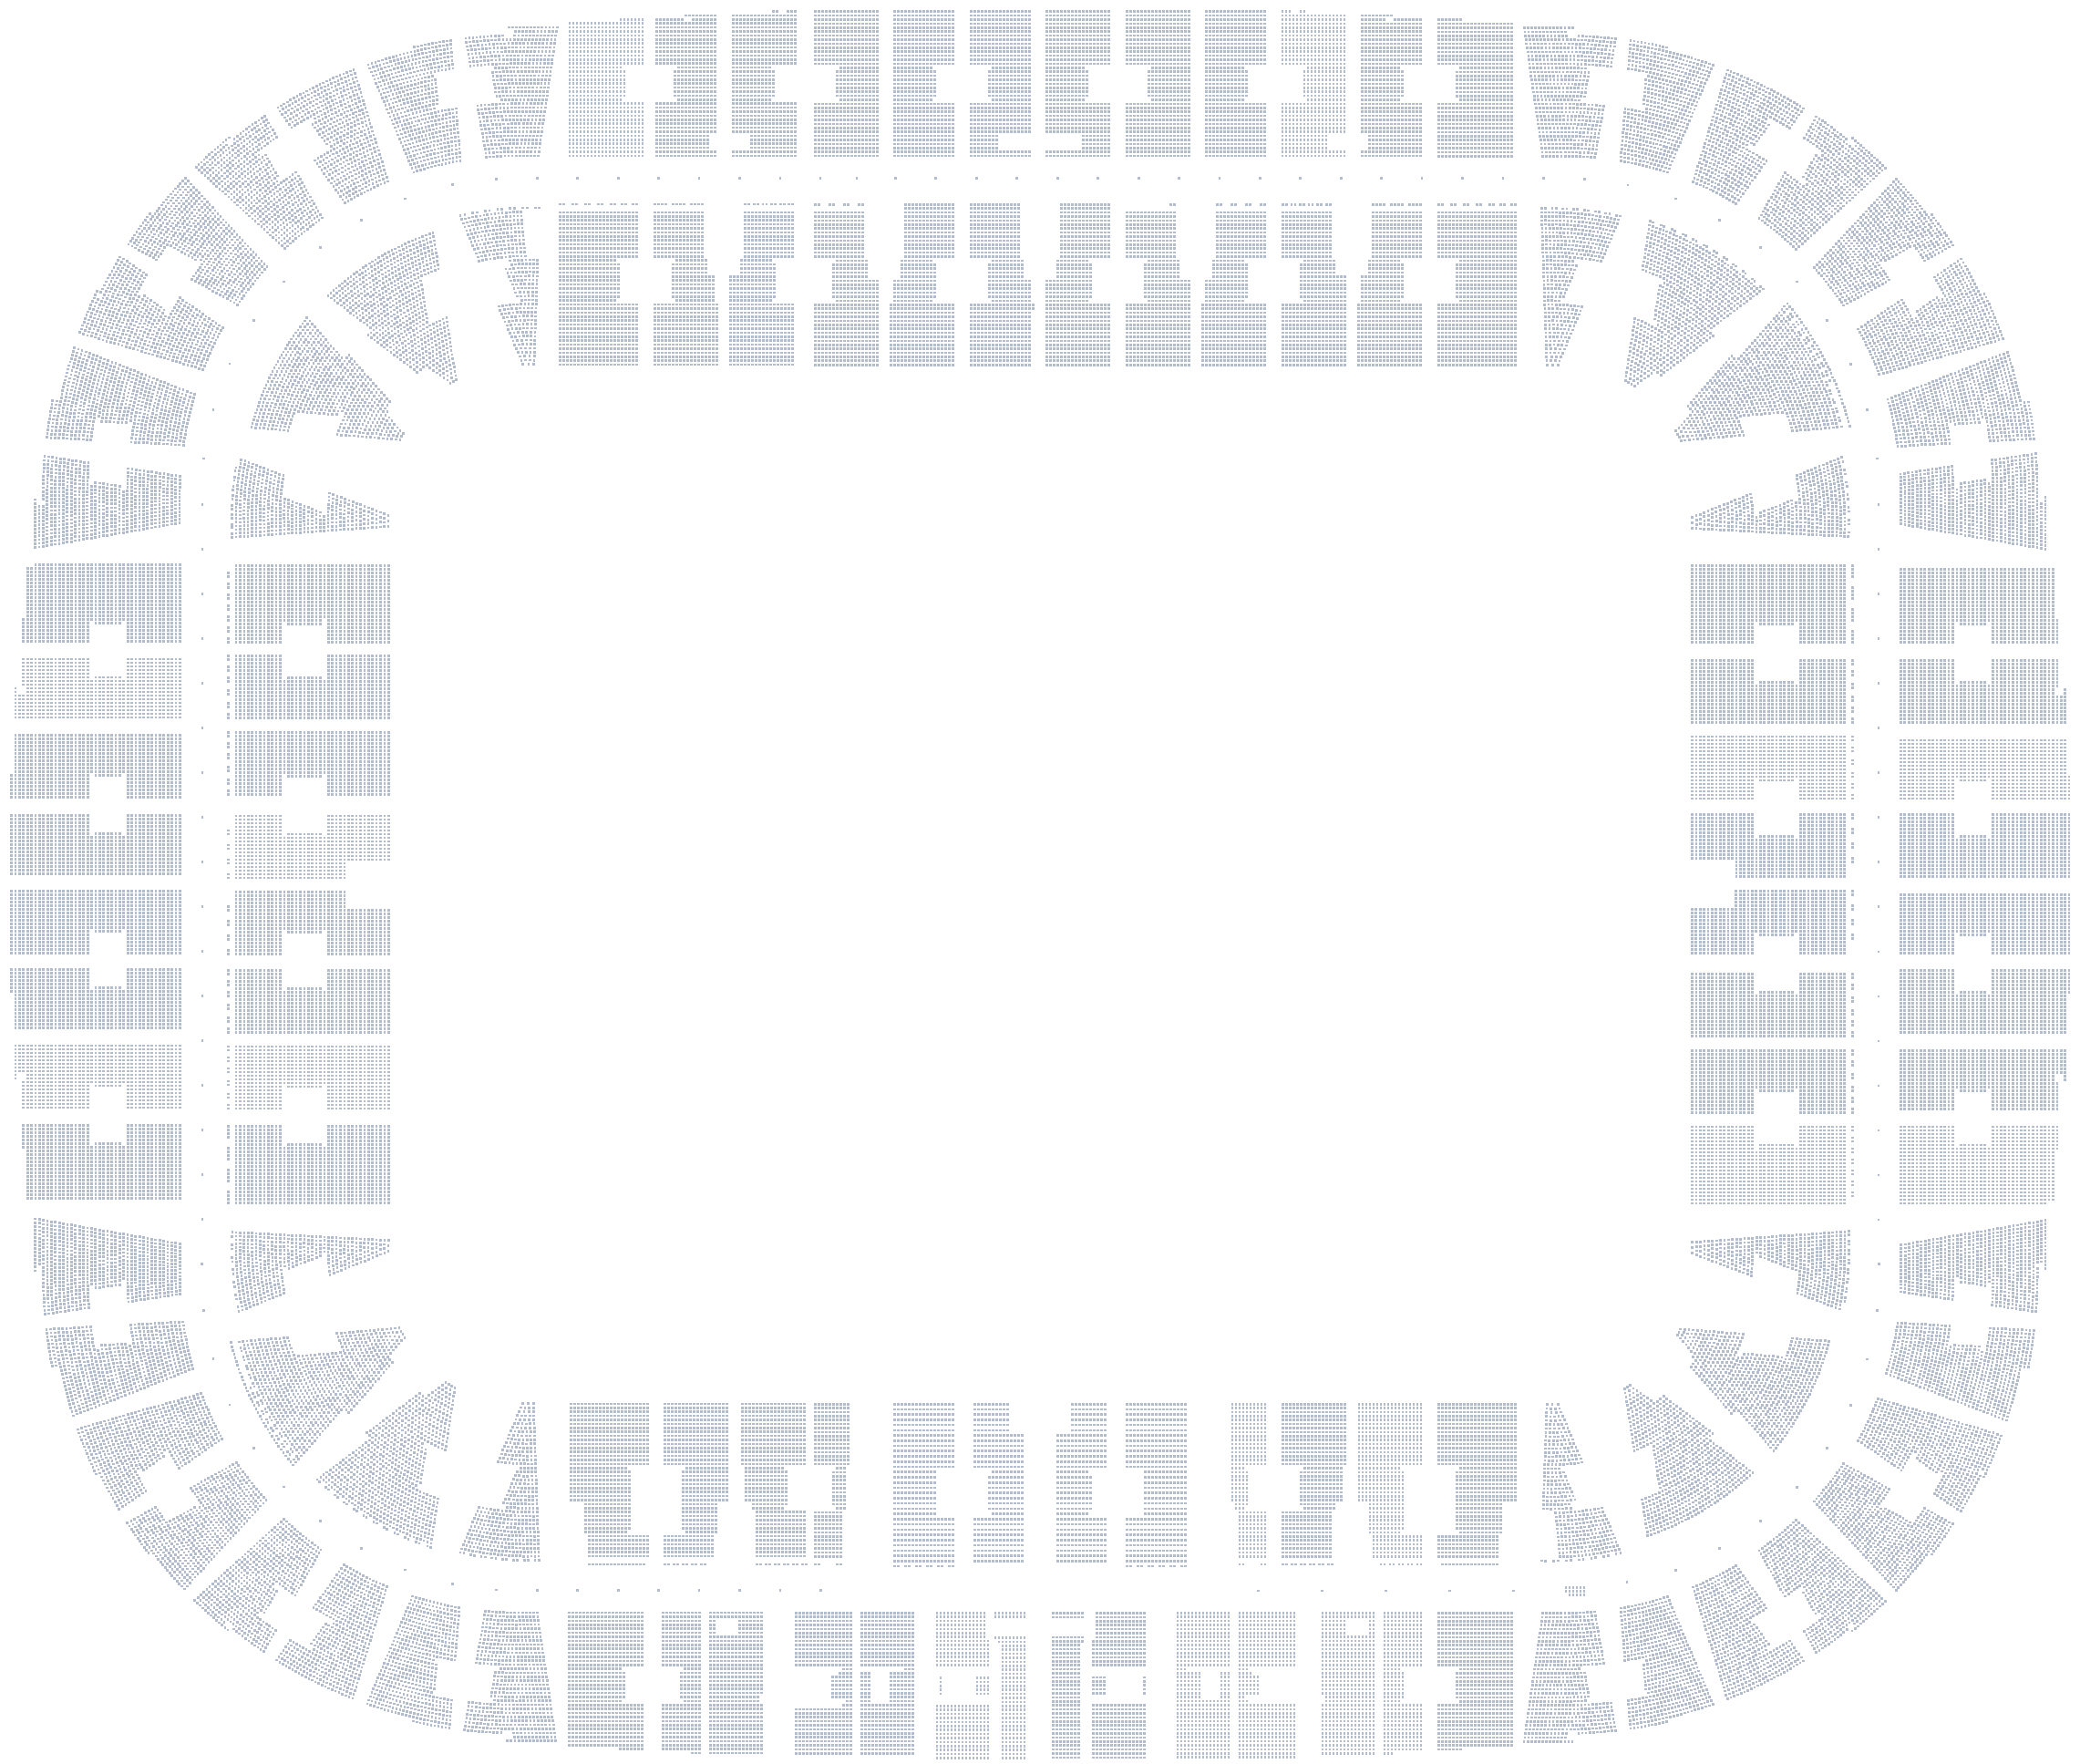
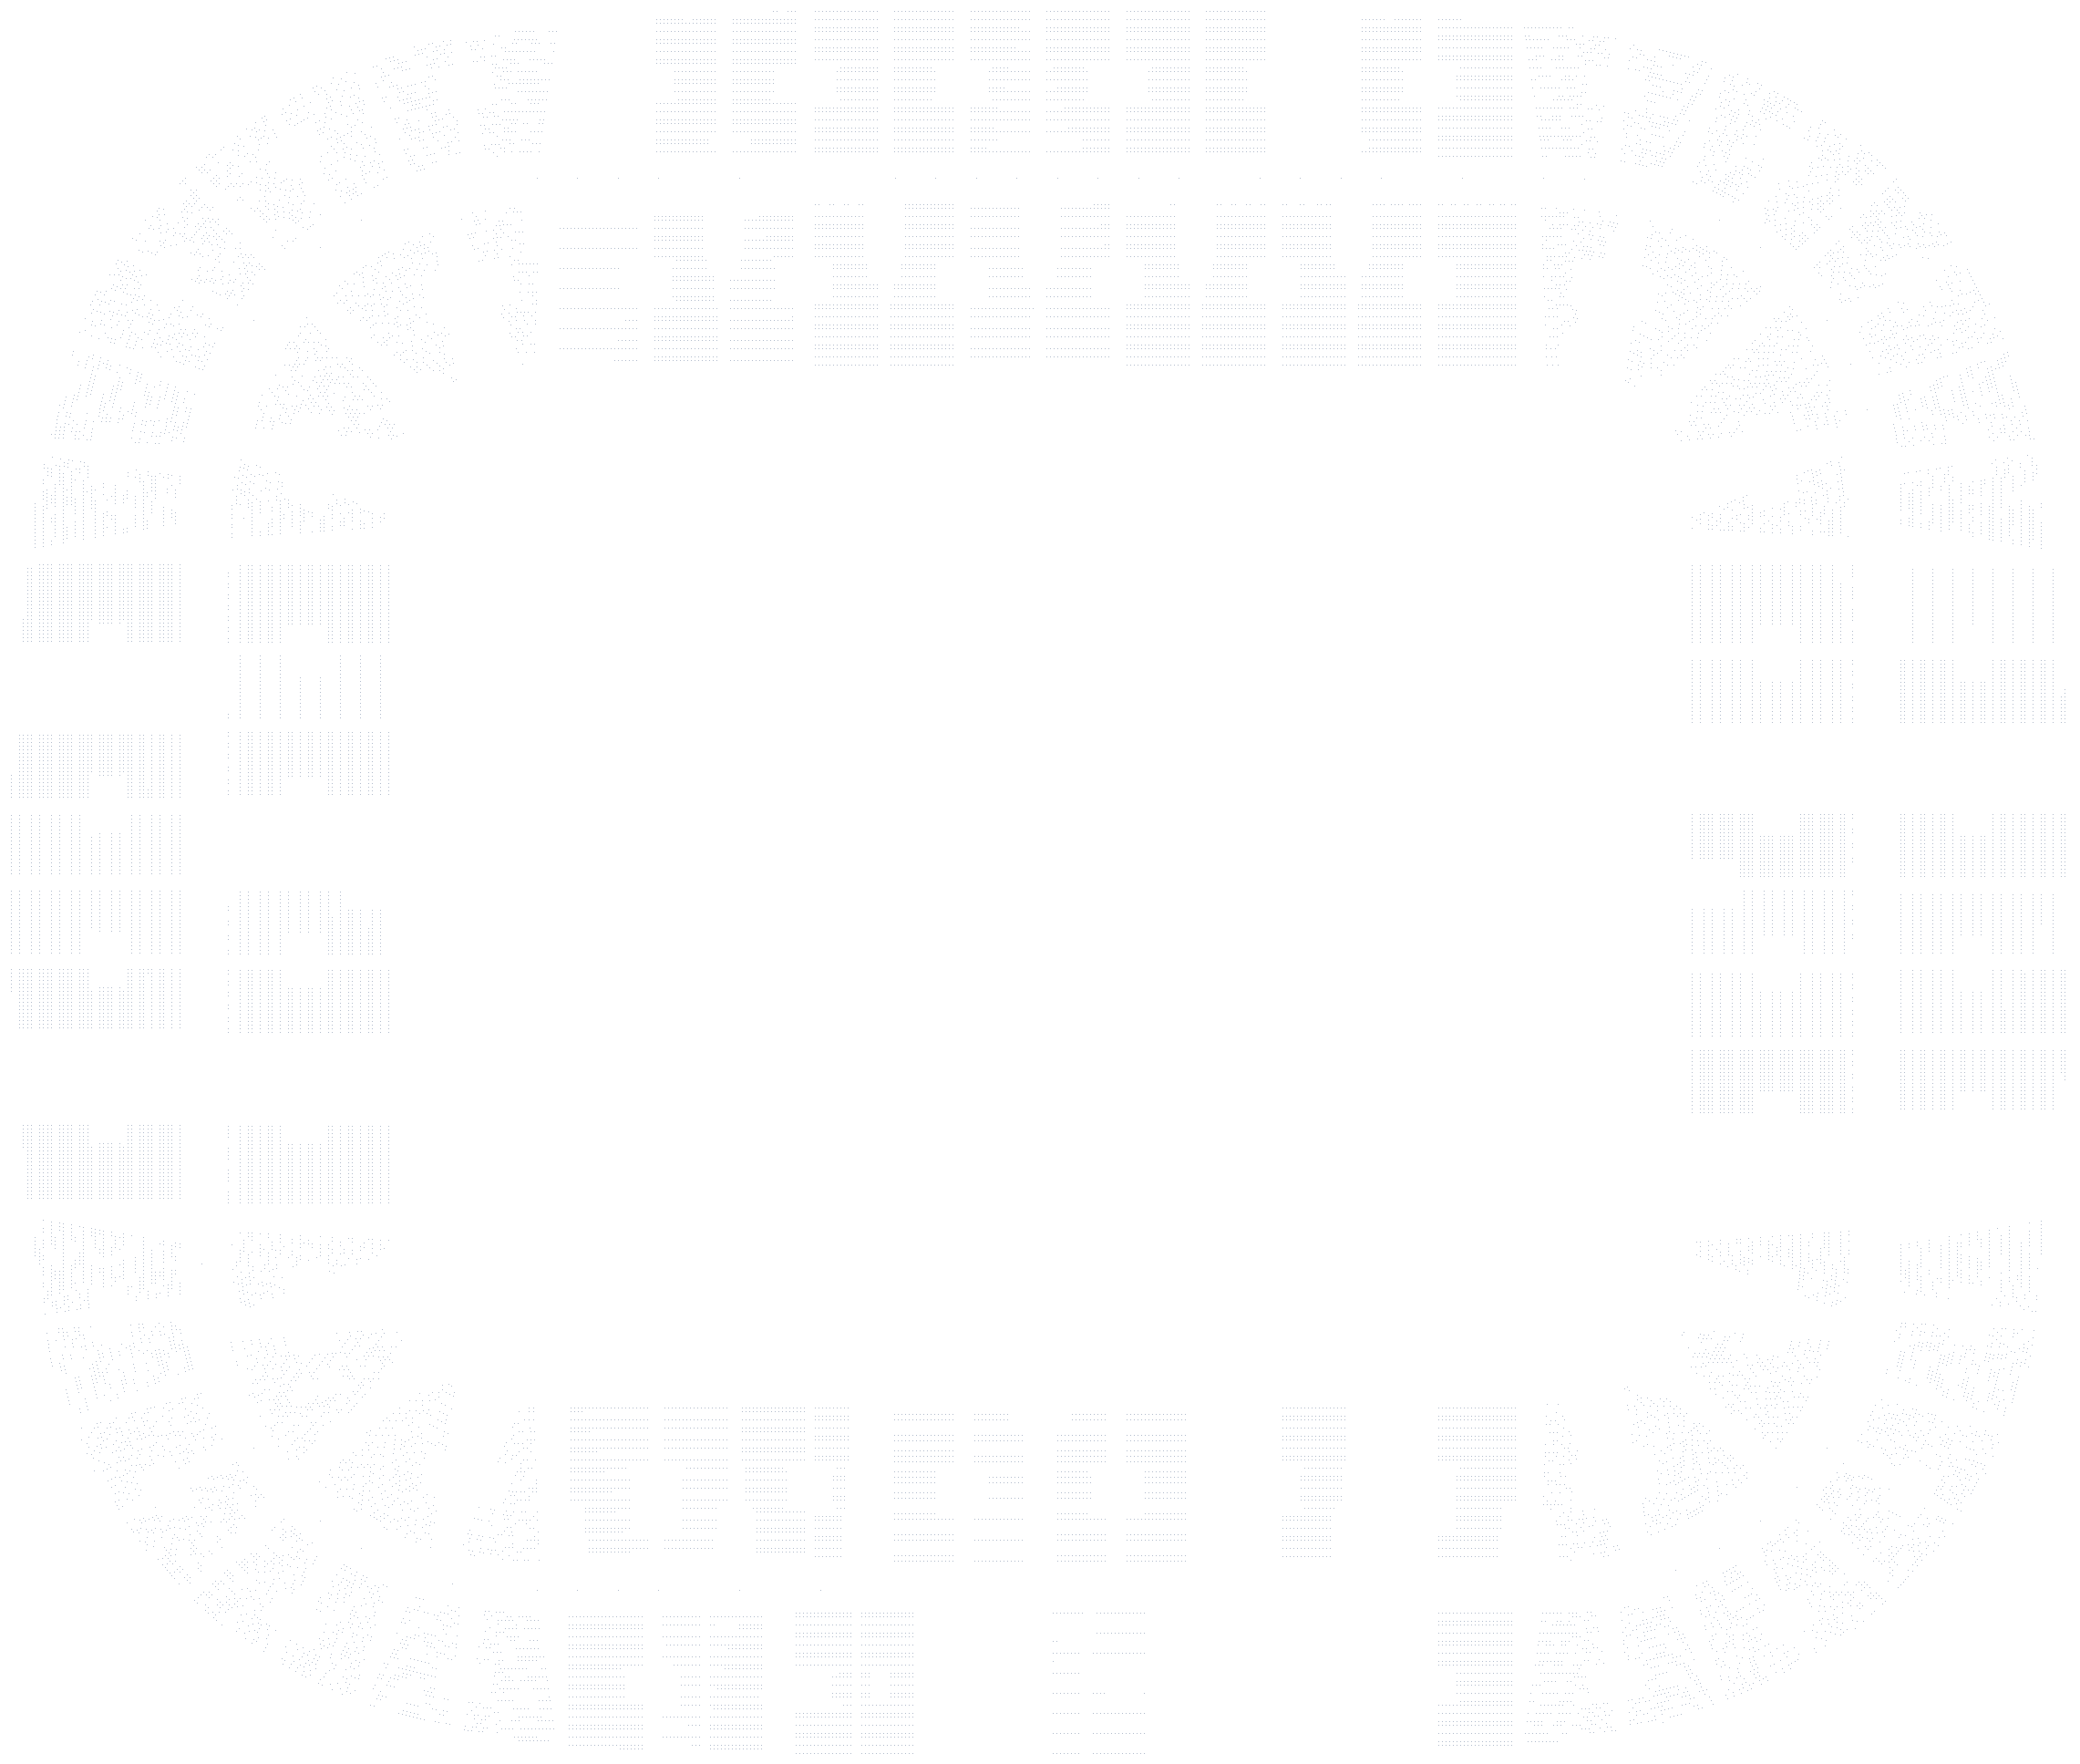
fix: кружки серой чаши при zoom — PNG + lazy dots.bin
Обзор: PNG с кругами. Zoom: vector ctx.arc из dots.bin, без ctx.rect и без 77k в layout.
Отдача dots.bin с backend, блок allSeatCoordinates при omitClientSeatCoordinateCloud.

Changed region(s): [[0.0, 0.0, 0.9956, 1.0]]

diff --git a/frontend/src/components/tickets/TicketHallInteractiveBlock.tsx b/frontend/src/components/tickets/TicketHallInteractiveBlock.tsx
@@ -14,7 +14,7 @@ import {
 } from '../../utils/svgNativeSeatLayout';
 import styles from './TicketHallInteractiveBlock.module.css';
 
-/** Совпадает с фоновой заливкой точек чаши на canvas (dense rects). */
+/** Совпадает с фоновой заливкой точек чаши на canvas (dense hall). */
 const CANVAS_HALL_SEAT_DOT_FILL = 'rgba(148, 163, 184, 0.72)';
 /** Маркер без оффера / превью схемы в DOM (slate ≈ rgb(148,163,184)); офферы — colorForSeat. */
 const DOM_UNIFORM_SEAT_ACCENT = '#94a3b8';
@@ -152,6 +152,56 @@ type BackgroundSeatCoordinate = {
   yPct: number;
 };
 
+function hallBackgroundSeatRadiusPx(scalePx: number, dense: boolean): number {
+  return dense
+    ? Math.max(0.5, Math.min(1.75, scalePx * 3.6))
+    : Math.max(0.85, Math.min(2.6, scalePx * 5.5));
+}
+
+type BackgroundArcLayout = {
+  left: number;
+  top: number;
+  screenW: number;
+  screenH: number;
+};
+
+function drawHallBackgroundArcs(
+  ctx: CanvasRenderingContext2D,
+  seats: BackgroundSeatCoordinate[] | Float32Array,
+  layout: BackgroundArcLayout,
+  viewportWidth: number,
+  viewportHeight: number,
+  svgViewBoxWidth: number,
+  dense: boolean,
+): void {
+  const { left, top, screenW, screenH } = layout;
+  const scalePx = screenW / Math.max(1, svgViewBoxWidth);
+  const r = hallBackgroundSeatRadiusPx(scalePx, dense);
+  ctx.fillStyle = CANVAS_HALL_SEAT_DOT_FILL;
+  ctx.beginPath();
+  const limW = viewportWidth + 14;
+  const limH = viewportHeight + 14;
+
+  if (seats instanceof Float32Array) {
+    for (let i = 0; i < seats.length; i += 2) {
+      const sx = left + (seats[i] / 100) * screenW;
+      const sy = top + (seats[i + 1] / 100) * screenH;
+      if (sx < -8 || sy < -8 || sx > limW || sy > limH) continue;
+      ctx.moveTo(sx + r, sy);
+      ctx.arc(sx, sy, r, 0, Math.PI * 2);
+    }
+  } else {
+    for (const seat of seats) {
+      const sx = left + (seat.xPct / 100) * screenW;
+      const sy = top + (seat.yPct / 100) * screenH;
+      if (sx < -8 || sy < -8 || sx > limW || sy > limH) continue;
+      ctx.moveTo(sx + r, sy);
+      ctx.arc(sx, sy, r, 0, Math.PI * 2);
+    }
+  }
+  ctx.fill();
+}
+
 function parseOverlayRect(layout: unknown): OverlayRect {
   if (!layout || typeof layout !== 'object') {
     return { x: 0.06, y: 0.14, w: 0.88, h: 0.72 };
@@ -284,6 +334,7 @@ import {
   lookupLabeledSeat,
 } from '@/utils/hallSeatSeatLookup';
 import {
+  hallBackgroundDotsUrlFromRaster,
   parseHallBackgroundRasterUrl,
   parseOmitClientSeatCoordinateCloud,
 } from '@/utils/luzhnikiStadiumMap';
@@ -515,6 +566,10 @@ export function TicketHallInteractiveBlock({
     hallBackgroundRasterUrl
     && (omitClientSeatCoordinateCloud || backgroundSeatCoordinates.length < 1),
   );
+  const hallBackgroundDotsUrl = useMemo(
+    () => hallBackgroundDotsUrlFromRaster(hallBackgroundRasterUrl),
+    [hallBackgroundRasterUrl],
+  );
   const nativeProcessed = useMemo(() => processHallSvgForNative(hallSvgHtml), [hallSvgHtml]);
   const preferLayoutSeatPositions = useMemo(
     () => parsePreferLayoutSeatPositions(layoutJson),
@@ -729,8 +784,11 @@ export function TicketHallInteractiveBlock({
   const touchSeatPressRef = useRef<{ key: string; x: number; y: number } | null>(null);
   const canvasImageRef = useRef<HTMLImageElement | null>(null);
   const hallRasterImageRef = useRef<HTMLImageElement | null>(null);
+  const bowlDotsRef = useRef<Float32Array | null>(null);
+  const bowlDotsLoadRef = useRef<Promise<void> | null>(null);
   const [canvasImageVersion, setCanvasImageVersion] = useState(0);
   const [hallRasterVersion, setHallRasterVersion] = useState(0);
+  const [bowlDotsVersion, setBowlDotsVersion] = useState(0);
   const [fitZoom, setFitZoom] = useState(1);
 
   const isCoarsePointer = useMemo(() => {
@@ -1322,6 +1380,41 @@ export function TicketHallInteractiveBlock({
 
   const selectedSectorSummary = selectedSector ? sectorSummaryByLabel.get(selectedSector) ?? null : null;
   const mapZoomed = zoom > fitZoom + 0.01;
+
+  useEffect(() => {
+    bowlDotsRef.current = null;
+    bowlDotsLoadRef.current = null;
+    setBowlDotsVersion((v) => v + 1);
+  }, [hallBackgroundDotsUrl]);
+
+  useEffect(() => {
+    if (!useHallBackgroundRaster || !hallBackgroundDotsUrl || !mapZoomed) return;
+    if (bowlDotsRef.current || bowlDotsLoadRef.current) return;
+
+    let cancelled = false;
+    bowlDotsLoadRef.current = fetch(hallBackgroundDotsUrl)
+      .then((response) => {
+        if (!response.ok) throw new Error(`dots ${response.status}`);
+        const ct = response.headers.get('content-type') || '';
+        if (ct.includes('text/html')) throw new Error('dots html fallback');
+        return response.arrayBuffer();
+      })
+      .then((buffer) => {
+        if (cancelled || buffer.byteLength < 100_000) return;
+        bowlDotsRef.current = new Float32Array(buffer);
+        setBowlDotsVersion((v) => v + 1);
+      })
+      .catch(() => {
+        /* zoom без vector dots — останется PNG fallback */
+      })
+      .finally(() => {
+        bowlDotsLoadRef.current = null;
+      });
+
+    return () => {
+      cancelled = true;
+    };
+  }, [hallBackgroundDotsUrl, mapZoomed, useHallBackgroundRaster]);
   const selectedSectorOffers = useMemo(
     () => (selectedSectorSummary ? sortOffersForGrid(selectedSectorSummary.offers) : []),
     [selectedSectorSummary],
@@ -1505,46 +1598,39 @@ export function TicketHallInteractiveBlock({
       }
 
       const hallRaster = hallRasterImageRef.current;
-      if (useHallBackgroundRaster && hallRaster) {
+      const mapZoomedNow = zoom > fitZoom + 0.01;
+      const bowlDots = bowlDotsRef.current;
+      if (useHallBackgroundRaster && hallRaster && (!mapZoomedNow || !bowlDots)) {
         ctx.drawImage(hallRaster, x, y, w, h);
+      }
+
+      if (useHallBackgroundRaster && mapZoomedNow && bowlDots) {
+        drawHallBackgroundArcs(
+          ctx,
+          bowlDots,
+          { left: x, top: y, screenW: w, screenH: h },
+          width,
+          height,
+          svgViewBox.width,
+          true,
+        );
       }
 
       const bg = backgroundSeatCoordinates;
       if (
         !useHallBackgroundRaster
         && bg.length > 0
-        && (zoom > fitZoom + 0.01 || bg.length >= 8000)
+        && (mapZoomedNow || bg.length >= 8000)
       ) {
-        ctx.fillStyle = 'rgba(148, 163, 184, 0.72)';
-        const scalePx = w / Math.max(1, svgViewBox.width);
-        const useRects = bg.length >= 2500;
-        if (useRects) {
-          const dense = bg.length >= 8000;
-          const r = dense
-            ? Math.max(0.5, Math.min(1.75, scalePx * 3.6))
-            : Math.max(0.85, Math.min(2.6, scalePx * 5.5));
-          ctx.beginPath();
-          const limW = width + 14;
-          const limH = height + 14;
-          for (const seat of bg) {
-            const sx = x + (seat.xPct / 100) * w;
-            const sy = y + (seat.yPct / 100) * h;
-            if (sx < -8 || sy < -8 || sx > limW || sy > limH) continue;
-            ctx.rect(sx - r * 0.5, sy - r * 0.5, r, r);
-          }
-          ctx.fill();
-        } else {
-          ctx.beginPath();
-          const r = Math.max(1.15, Math.min(3.2, scalePx * 7));
-          for (const seat of bg) {
-            const sx = x + (seat.xPct / 100) * w;
-            const sy = y + (seat.yPct / 100) * h;
-            if (sx < -8 || sy < -8 || sx > width + 8 || sy > height + 8) continue;
-            ctx.moveTo(sx + r, sy);
-            ctx.arc(sx, sy, r, 0, Math.PI * 2);
-          }
-          ctx.fill();
-        }
+        drawHallBackgroundArcs(
+          ctx,
+          bg,
+          { left: x, top: y, screenW: w, screenH: h },
+          width,
+          height,
+          svgViewBox.width,
+          bg.length >= 8000,
+        );
       }
 
       if (visibleNativePlacements.length > 0) {
@@ -1580,6 +1666,7 @@ export function TicketHallInteractiveBlock({
     return () => cancelAnimationFrame(frame);
   }, [
     backgroundSeatCoordinates,
+    bowlDotsVersion,
     canvasImageVersion,
     colorForSeat,
     fitZoom,

diff --git a/backend/scripts/render-luzhniki-gray-bowl-png.js b/backend/scripts/render-luzhniki-gray-bowl-png.js
@@ -30,18 +30,24 @@ function parseArgs() {
   return { out, coordsPath };
 }
 
-function paintRect(buf, w, h, x0, y0, x1, y1, rgba) {
-  const cx0 = Math.max(0, x0);
-  const cy0 = Math.max(0, y0);
-  const cx1 = Math.min(w - 1, x1);
-  const cy1 = Math.min(h - 1, y1);
-  for (let y = cy0; y <= cy1; y += 1) {
-    let i = (y * w + cx0) * 4;
-    for (let x = cx0; x <= cx1; x += 1) {
-      buf[i] = rgba[0];
-      buf[i + 1] = rgba[1];
-      buf[i + 2] = rgba[2];
-      buf[i + 3] = rgba[3];
+function paintDisc(buf, w, h, cx, cy, radius, rgba) {
+  const r = Math.ceil(radius);
+  const x0 = Math.max(0, Math.floor(cx - r));
+  const y0 = Math.max(0, Math.floor(cy - r));
+  const x1 = Math.min(w - 1, Math.ceil(cx + r));
+  const y1 = Math.min(h - 1, Math.ceil(cy + r));
+  const r2 = radius * radius;
+  for (let y = y0; y <= y1; y += 1) {
+    let i = (y * w + x0) * 4;
+    for (let x = x0; x <= x1; x += 1) {
+      const dx = x - cx;
+      const dy = y - cy;
+      if (dx * dx + dy * dy <= r2) {
+        buf[i] = rgba[0];
+        buf[i + 1] = rgba[1];
+        buf[i + 2] = rgba[2];
+        buf[i + 3] = rgba[3];
+      }
       i += 4;
     }
   }
@@ -67,27 +73,36 @@ async function main() {
   const rgba = [148, 163, 184, 183];
 
   const buf = Buffer.alloc(OUT_W * outH * 4, 0);
-  for (const dot of dots) {
+  const coords = new Float32Array(dots.length * 2);
+  for (let i = 0; i < dots.length; i += 1) {
+    const dot = dots[i];
+    coords[i * 2] = dot.xPct;
+    coords[i * 2 + 1] = dot.yPct;
     const cx = (dot.xPct / 100) * OUT_W;
     const cy = (dot.yPct / 100) * outH;
-    const half = r * 0.5;
-    paintRect(buf, OUT_W, outH, Math.floor(cx - half), Math.floor(cy - half), Math.ceil(cx + half), Math.ceil(cy + half), rgba);
+    paintDisc(buf, OUT_W, outH, cx, cy, r * 0.5, rgba);
   }
+
+  const dotsOut = out.replace(/\.png$/i, '-dots.bin');
 
   fs.mkdirSync(path.dirname(out), { recursive: true });
   await sharp(buf, { raw: { width: OUT_W, height: outH, channels: 4 } })
     .png({ compressionLevel: 9, adaptiveFiltering: true })
     .toFile(out);
+  fs.writeFileSync(dotsOut, Buffer.from(coords.buffer));
 
   const stat = fs.statSync(out);
+  const dotsStat = fs.statSync(dotsOut);
   console.log(
     JSON.stringify({
       ok: true,
       out,
+      dotsOut,
       dots: dots.length,
       width: OUT_W,
       height: outH,
       bytes: stat.size,
+      dotsBytes: dotsStat.size,
     }),
   );
 }

diff --git a/backend/app.js b/backend/app.js
@@ -428,6 +428,24 @@ app.get('/robots.txt', (req, res) => {
   res.status(404).type('text/plain').send('Not found');
 });
 
+app.get('/hall-maps/luzhniki-football-gray-bowl.png', (req, res) => {
+  const ok = sendDistRootFile(res, 'hall-maps/luzhniki-football-gray-bowl.png', (r) => {
+    r.setHeader('Content-Type', 'image/png');
+    r.setHeader('Cache-Control', 'public, max-age=31536000, immutable');
+  });
+  if (ok) return;
+  res.status(404).type('text/plain').send('Not found');
+});
+
+app.get('/hall-maps/luzhniki-football-gray-bowl-dots.bin', (req, res) => {
+  const ok = sendDistRootFile(res, 'hall-maps/luzhniki-football-gray-bowl-dots.bin', (r) => {
+    r.setHeader('Content-Type', 'application/octet-stream');
+    r.setHeader('Cache-Control', 'public, max-age=31536000, immutable');
+  });
+  if (ok) return;
+  res.status(404).type('text/plain').send('Not found');
+});
+
 const LUZHNIKI_GRID_DIAG_HTML = [
   'luzhniki-grid-diagnostic.html',
   'luzhniki-grid-diagnostic-d230.html',
@@ -463,6 +481,9 @@ if (existingDistRoots.length) {
         res.setHeader('Cache-Control', 'public, max-age=3600');
       } else if (filePath.endsWith('favicon.svg')) {
         res.setHeader('Content-Type', 'image/svg+xml');
+      } else if (filePath.endsWith('.bin')) {
+        res.setHeader('Content-Type', 'application/octet-stream');
+        res.setHeader('Cache-Control', 'public, max-age=31536000, immutable');
       } else if (filePath.includes(`${path.sep}tools${path.sep}`) && filePath.endsWith('.html')) {
         res.setHeader('Content-Type', 'text/html; charset=utf-8');
         res.setHeader('X-Robots-Tag', 'noindex, nofollow, noarchive');

diff --git a/frontend/src/pages/public/TicketCheckoutPage.tsx b/frontend/src/pages/public/TicketCheckoutPage.tsx
@@ -55,6 +55,7 @@ import {
   isLuzhnikiFootballRepertoire,
   isLuzhnikiStadiumCheckoutLayout,
   LUZHNIKI_FOOTBALL_STAGE_MAP_KEY,
+  parseOmitClientSeatCoordinateCloud,
 } from '@/utils/luzhnikiStadiumMap';
 import {
   getOfferSeatList,
@@ -906,12 +907,15 @@ export function TicketCheckoutPage() {
 
     /** Лужники: sellableSeats с GET /map (adaptLuzhniki + live offers), тяжёлое — из контекста. */
     if (isLuzhnikiFootballStage && mapLayout && stageMapFetched) {
+      const omitSeatCloud = parseOmitClientSeatCoordinateCloud(mapLayout);
       return {
         ...(ctxLayout ?? mapLayout),
         ...mapLayout,
         sellableSeats: Array.isArray(mapLayout.sellableSeats) ? mapLayout.sellableSeats : [],
         sellableSeatsFromLiveOffers: mapLayout.sellableSeatsFromLiveOffers === true,
-        allSeatCoordinates: ctxLayout?.allSeatCoordinates ?? mapLayout.allSeatCoordinates,
+        allSeatCoordinates: omitSeatCloud
+          ? undefined
+          : (ctxLayout?.allSeatCoordinates ?? mapLayout.allSeatCoordinates),
         seats: ctxLayout?.seats ?? mapLayout.seats,
         sectorMode: ctxLayout?.sectorMode ?? mapLayout.sectorMode,
         svg_markup: ctxLayout?.svg_markup ?? mapLayout.svg_markup,

diff --git a/frontend/src/utils/luzhnikiStadiumMap.ts b/frontend/src/utils/luzhnikiStadiumMap.ts
@@ -70,3 +70,9 @@ export function parseHallBackgroundRasterUrl(layout: unknown): string | null {
   if (typeof url !== 'string' || !url.trim()) return null;
   return url.trim();
 }
+
+/** Lazy-load ~77k x/y для vector-кружков при zoom-in (рядом с PNG чаши). */
+export function hallBackgroundDotsUrlFromRaster(rasterUrl: string | null | undefined): string | null {
+  if (!rasterUrl?.trim()) return null;
+  return rasterUrl.trim().replace(/\.png(\?.*)?$/i, '-dots.bin$1');
+}

diff --git a/backend/middleware/seoRenderer.js b/backend/middleware/seoRenderer.js
@@ -294,7 +294,7 @@ export async function seoRenderer(req, res, next) {
   // Не уводить /manifest.json в next() (ниже сработал бы общий 404) — обрабатывается блоком выше
   if (
     req.path !== '/manifest.json' &&
-    req.path.match(/\.(jpg|jpeg|png|gif|webp|svg|ico|css|js|woff|woff2|ttf|eot|pdf|zip|json|xml|yml)$/i)
+    req.path.match(/\.(jpg|jpeg|png|gif|webp|svg|ico|css|js|woff|woff2|ttf|eot|pdf|zip|json|xml|yml|bin)$/i)
   ) {
     return next();
   }